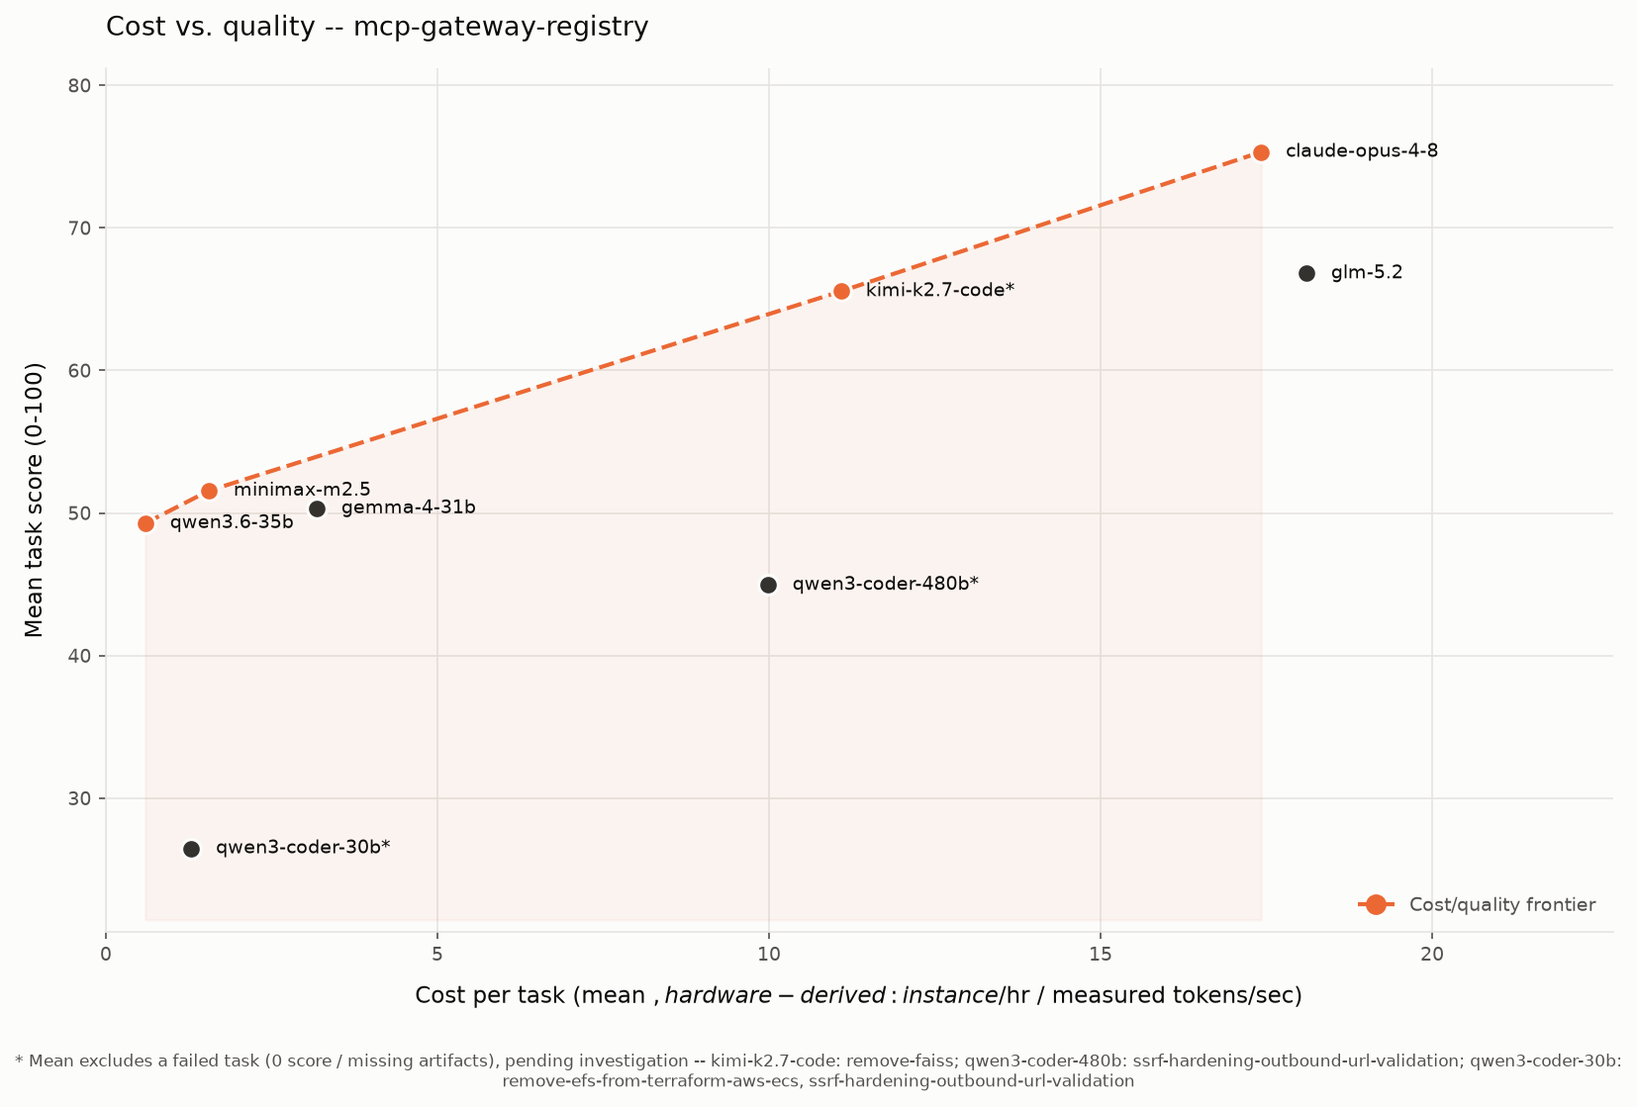
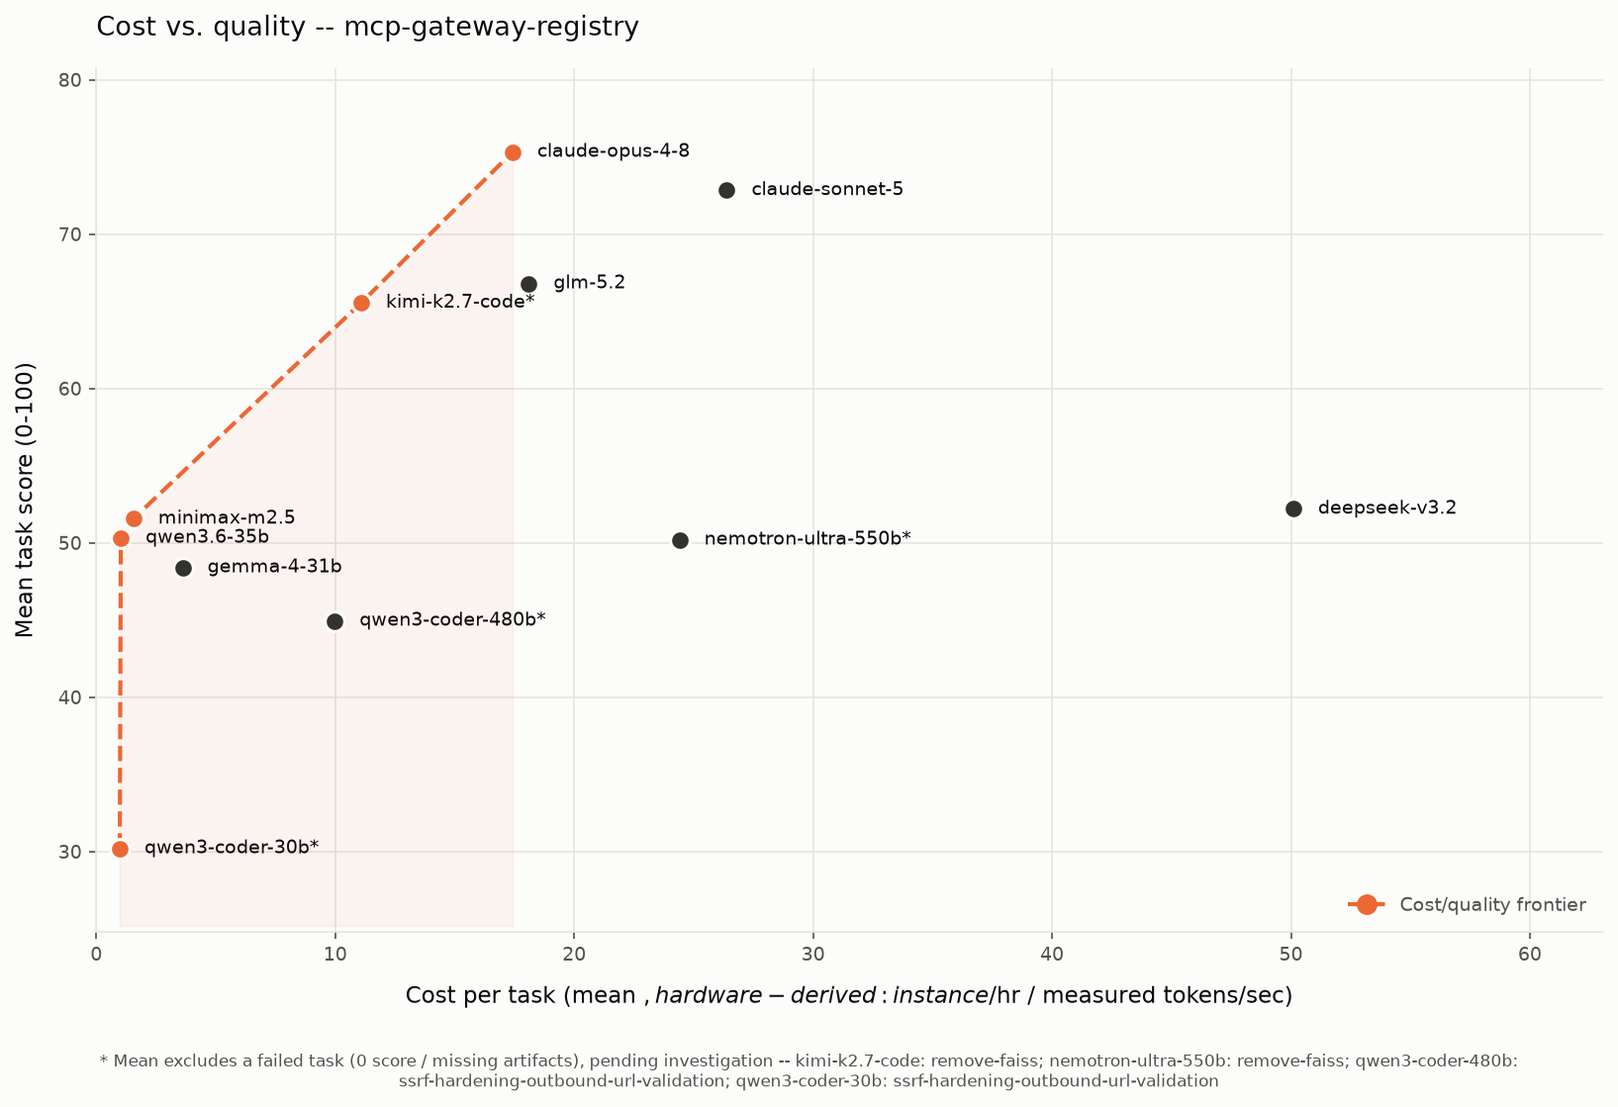
README: refresh results for the full 11-model set + new self-hosted run numbers
The table/chart/leaderboard now cover 11 models. New Path 1 (Bedrock) result
Claude-Sonnet-5 (72.84, $26.39/task) and self-hosted DeepSeek-V3.2 (52.20) and
Nemotron-Ultra-550B (50.20) join the set. The three g6e models were re-run under
the current /swe2 skill, changing both scores AND hardware-derived cost (cost =
this run's actual per-task tokens x blended $/token): qwen3.6-35b 50.32/$1.03,
gemma-4-31b 48.40/$3.62, qwen3-coder-30b 30.20/$0.98 (ssrf failed this run).

Frontier (5): qwen3-coder-30b -> qwen3.6-35b -> minimax-m2.5 -> kimi -> opus-4.8.
Opus still tops quality and dominates GLM (higher score, lower cost); Sonnet-5 is
2nd on quality but off the frontier on cost. Flagged that DeepSeek-V3.2 and
Nemotron have no throughput sweep, so their $/task is a token-priced estimate
(dagger), not hardware-derived. Updated footnotes 5/6/9, model list, coming-soon,
and regenerated both chart themes.

diff --git a/README.md b/README.md
@@ -107,40 +107,40 @@ To show what the harness produces, we ran it against [agentic-community/mcp-gate
 | 4 | `migrate-ecs-env-vars-to-secrets-manager` | High | Upstream [#1134](https://github.com/agentic-community/mcp-gateway-registry/issues/1134) |
 | 5 | `replace-keycloak-db-password-with-rds-iam` | High | Upstream [#1303](https://github.com/agentic-community/mcp-gateway-registry/issues/1303) |
 
-**Models benchmarked so far:** **Path 1 (Bedrock):** Claude-Opus-4.8. **Path 3 (self-hosted on vLLM):** Kimi-K2.7-Code, GLM-5.2, MiniMax-M2.5, and Qwen3-Coder-480B-A35B-Instruct (all on 8x H200 / `p5en.48xlarge`), plus Qwen3.6-35B-A3B, Qwen3-Coder-30B-A3B-Instruct, Qwen3-Coder-Next, and Gemma-4-31B-it (on `g6e.12xlarge` / 4x L40S). **Coming soon:** the rest of the Anthropic family on Bedrock (Sonnet/Haiku) and Path 2 (open-weight on Bedrock via the LiteLLM proxy -- DeepSeek, Mistral, …).
+**Models benchmarked so far:** **Path 1 (Bedrock):** Claude-Opus-4.8, Claude-Sonnet-5. **Path 3 (self-hosted on vLLM):** Kimi-K2.7-Code, GLM-5.2, DeepSeek-V3.2, MiniMax-M2.5, Nemotron-Ultra-550B, and Qwen3-Coder-480B-A35B-Instruct (all on 8x H200 / `p5en.48xlarge`), plus Qwen3.6-35B-A3B, Qwen3-Coder-30B-A3B-Instruct, Qwen3-Coder-Next, and Gemma-4-31B-it (on `g6e.12xlarge` / 4x L40S). **Coming soon:** Claude Haiku on Bedrock (Path 1) and Path 2 (open-weight on Bedrock via the LiteLLM proxy -- Mistral, …).
 
 ### Results -- 5 tasks x models
 
-All cells are task scores (0-100), the mean of the artifact totals per (task x model). These are **`/swe2` runs -- design *and* implementation** (six artifacts: the four design docs plus `patch.diff` + `implementation.md`), scored by the same judge (`codex exec`, `gpt-5.6-sol`, high reasoning effort). **Claude-Opus-4.8** is the first **Path 1** result (Anthropic on Amazon Bedrock); every other column is **Path 3, self-hosted via vLLM** (hardware differs by model size -- see the row under the table). Bold = top score in row. The other Bedrock paths are still **coming soon**.
+All cells are task scores (0-100), the mean of the artifact totals per (task x model). These are **`/swe2` runs -- design *and* implementation** (six artifacts: the four design docs plus `patch.diff` + `implementation.md`), scored by the same judge (`codex exec`, `gpt-5.6-sol`, high reasoning effort). **Claude-Opus-4.8 and Claude-Sonnet-5** are **Path 1** results (Anthropic on Amazon Bedrock); every other column is **Path 3, self-hosted via vLLM** (hardware differs by model size -- see the row under the table). Columns are ordered by mean score. Bold = top score in row. Path 2 (open-weight on Bedrock via LiteLLM) is still **coming soon**.
 
-| Task | Difficulty | Claude-Opus-4.8⁹ | GLM-5.2⁶ | Kimi-K2.7-Code | MiniMax-M2.5 | Gemma-4-31B | Qwen3.6-35B | Qwen3-Coder-480B⁷ | Qwen3-Coder-30B | Qwen3-Coder-Next⁴ |
-|------|-----------|-----------------:|---------:|---------------:|-------------:|------------:|------------:|------------------:|----------------:|:-----------------:|
-| `remove-faiss` | Medium | **69.2** | 62.8 | 0.0 ⁵ | 44.2 | 49.4 | 57.6 | 45.6 | 24.4 | n/a |
-| `remove-efs-from-terraform-aws-ecs` | Medium | **79.6** | 73.8 | 70.8 | 62.0 | 60.4 | 59.0 | 55.4 | 0.0 ⁵ | n/a |
-| `ssrf-hardening-outbound-url-validation` | Medium | **80.6** | 64.6 | 72.0 | 58.2 | 49.4 | 54.6 | 0.0 ⁵ | 0.0 ⁵ | n/a |
-| `migrate-ecs-env-vars-to-secrets-manager` | High | **70.6** | 68.6 | 67.2 | 53.6 | 52.4 | 39.2 | 41.0 | 32.2 | n/a |
-| `replace-keycloak-db-password-with-rds-iam` | High | **76.6** | 64.2 | 52.2 | 39.8 | 40.0 | 36.0 | 37.8 | 22.8 | n/a |
-| **Mean (excl. failed task⁵)** | | **75.32** | 66.80 | 65.55 | 51.56 | 50.32 | 49.28 | 44.95 | 26.47 | n/a |
+| Task | Diff. | Opus-4.8⁹ | Sonnet-5⁹ | GLM-5.2⁶ | Kimi-K2.7 | DeepSeek-V3.2 | MiniMax-M2.5 | Qwen3.6-35B | Nemotron-550B | Gemma-4-31B | Qwen3-Coder-480B⁷ | Qwen3-Coder-30B |
+|------|-------|----------:|----------:|---------:|----------:|--------------:|-------------:|------------:|--------------:|------------:|------------------:|----------------:|
+| `remove-faiss` | Med | 69.2 | **72.8** | 62.8 | 0.0 ⁵ | 48.2 | 44.2 | 53.2 | 0.0 ⁵ | 38.0 | 45.6 | 32.0 |
+| `remove-efs-from-terraform-aws-ecs` | Med | 79.6 | **86.8** | 73.8 | 70.8 | 59.0 | 62.0 | 65.2 | 55.4 | 53.6 | 55.4 | 28.2 |
+| `ssrf-hardening-outbound-url-validation` | Med | **80.6** | 68.6 | 64.6 | 72.0 | 56.4 | 58.2 | 41.6 | 52.4 | 64.6 | 0.0 ⁵ | 0.0 ⁵ |
+| `migrate-ecs-env-vars-to-secrets-manager` | High | **70.6** | 66.0 | 68.6 | 67.2 | 51.2 | 53.6 | 46.4 | 50.0 | 48.4 | 41.0 | 30.8 |
+| `replace-keycloak-db-password-with-rds-iam` | High | **76.6** | 70.0 | 64.2 | 52.2 | 46.2 | 39.8 | 45.2 | 43.0 | 37.4 | 37.8 | 29.8 |
+| **Mean (excl. failed⁵)** | | **75.32** | 72.84 | 66.80 | 65.55 | 52.20 | 51.56 | 50.32 | 50.20 | 48.40 | 44.95 | 30.20 |
 
-The **Mean** row excludes any task that scored 0 -- a genuine model failure (missing artifacts), which is an unresolved anomaly rather than a quality measurement, so it is left out of the average **pending further investigation** and flagged with `⁵`. Per-task 0.0 cells are still shown so the failure is visible. Claude-Opus-4.8 / GLM-5.2 / MiniMax-M2.5 / Qwen3.6-35B / Gemma-4-31B score over all 5 tasks (no failures); Kimi over 4 (one failed), Qwen3-Coder-480B over 4, Qwen3-Coder-30B over 3 (two failed).
+The **Mean** row excludes any task that scored 0 -- a genuine model failure (missing artifacts), an unresolved anomaly rather than a quality measurement, so it is left out of the average **pending further investigation** and flagged with `⁵`. Per-task 0.0 cells are still shown so the failure is visible. No-failure (5/5): Opus-4.8, Sonnet-5, GLM-5.2, DeepSeek-V3.2, MiniMax-M2.5, Qwen3.6-35B, Gemma-4-31B. 4/5 (one failed): Kimi (`remove-faiss`), Nemotron-550B (`remove-faiss`), Qwen3-Coder-480B (`ssrf`), Qwen3-Coder-30B (`ssrf`).
 
 **Hardware:** Kimi-K2.7-Code (1.06T-param MoE, ~1 TB weights) ran on **8x H200** (`p5en.48xlarge`) at its full **131,072-token (128K) native context window**; GLM-5.2 (744B MoE / 40B active, ~750 GB FP8 weights), MiniMax-M2.5, and Qwen3-Coder-480B (480B MoE / 35B active, FP8, TP=4) also ran on **8x H200** (`p5en.48xlarge`); the three smaller Qwen models (3B-active MoE) and Gemma-4-31B (dense, ~63 GB) ran on a single **`g6e.12xlarge`** (4x L40S) at a 200K window. All via vLLM. Gemma-4-31B is dense and slow, so it used a raised per-task timeout (`--timeout-seconds 3600`); the default 1800s was not enough for it to return. Note Kimi's 128K window is below the harness's 200K agentic-coding guideline, yet it completed 4 of 5 tasks -- the one failure (`keycloak-rds-iam`) was a turn-cap timeout, not a context overflow.
 
 ⁴ Qwen3-Coder-Next (79.6B, ~160 GB weights) **could not be benchmarked on the `g6e.12xlarge`.** There the weights leave room for only a ~16K context window, but agentic coding tasks need 100K-250K input tokens per request, so every task overflows the window on the first prompt. It needs a larger-VRAM node (e.g. `g6e.48xlarge`) to serve a >=200K window. The `/benchmark` skill enforces a 200K-minimum gate by default as a conservative guideline -- Kimi's 128K run shows a window somewhat below 200K can still work when the tasks fit, but 16K cannot. See [self-hosted/vllm/models/qwen3-coder-next.md](self-hosted/vllm/models/qwen3-coder-next.md).
 
-⁵ **Genuine model failures, scored 0.** On these `/swe2` runs the failures are: Kimi-K2.7-Code on `remove-faiss`, Qwen3-Coder-480B on `ssrf`, and Qwen3-Coder-30B on `remove-efs` and `ssrf`. Each failed to produce a scorable artifact set (typically the model exhausted its turn budget on the implementation step without landing edits, so no `patch.diff`). The judge records a missing/empty-artifact folder as a 0 with a `MODEL FAILURE` verdict rather than dropping it. The **Mean** row excludes these tasks (over the tasks each model completed): GLM-5.2 66.80 (5/5), Kimi 65.55 (4/5), MiniMax-M2.5 51.56 (5/5), Gemma-4-31B 50.32 (5/5), Qwen3.6-35B 49.28 (5/5), Qwen3-Coder-480B 44.95 (4/5), Qwen3-Coder-30B 26.47 (3/5).
+⁵ **Genuine model failures, scored 0.** On these `/swe2` runs the failures are: Kimi-K2.7-Code on `remove-faiss`, Nemotron-Ultra-550B on `remove-faiss`, Qwen3-Coder-480B on `ssrf`, and Qwen3-Coder-30B on `ssrf`. Each failed to produce a scorable artifact set (typically the model exhausted its turn budget on the implementation step without landing edits, so no `patch.diff`). The judge records a missing/empty-artifact folder as a 0 with a `MODEL FAILURE` verdict rather than dropping it. The **Mean** row is over the tasks each model completed, excluding those failures: 5/5 for Opus-4.8, Sonnet-5, GLM-5.2, DeepSeek-V3.2, MiniMax-M2.5, Qwen3.6-35B, Gemma-4-31B; 4/5 for Kimi, Nemotron-Ultra-550B, Qwen3-Coder-480B, and Qwen3-Coder-30B.
 
 ⁶ **GLM-5.2 ran with more headroom than the others -- not strictly apples-to-apples.** GLM-5.2 (`zai-org/GLM-5.2-FP8`, 744B MoE / 40B active, ~750 GB FP8 weights) was served on **8x H200** at a **300K context window**. It is the top self-hosted model (66.80 over 5/5) but on the biggest, most expensive box measured (~$18/task, see the cost section). Treat cross-instance comparisons as indicative until normalized.
 
 ⁷ **Qwen3-Coder-480B intermittently fails to produce artifacts -- the failure is nondeterministic, not task-specific.** Qwen3-Coder-480B (`Qwen/Qwen3-Coder-480B-A35B-Instruct-FP8`, 480B MoE / 35B active) was served on the **8x H200** node at **TP=4** (a block-FP8 MoE sharding constraint forces TP=4, not 8 -- see [its model guide](self-hosted/vllm/models/qwen3-coder-480b.md)), 200K window. Like the smaller Qwen3-Coder-30B, it periodically explores/edits the repo instead of completing the artifact chain (or exhausts the turn cap), scoring 0 on some tasks. It is a harness-conformance instability of a coder-tuned model, not a serving or context problem.
 
-⁹ **Claude-Opus-4.8 is a Path 1 (Bedrock) result -- its cost is a real metered API bill, not hardware-derived.** `us.anthropic.claude-opus-4-8` was run through Amazon Bedrock (no self-hosting), so its **$17.42/task** is the actual token-metered charge, whereas every self-hosted model's `$/task` is `instance $/hr / measured tokens/sec` x tokens (see the cost section). They are comparable as "what you would pay," but the provenance differs. Opus tops the quality table (75.32 over 5/5) at a cost slightly *below* the most expensive self-hosted model (GLM-5.2, $18.10) -- so it **dominates** GLM here (higher score, lower cost) and anchors the top of the cost/quality frontier. On this benchmark the best-quality option is a frontier API model, and it is not more expensive per task than running a 744B MoE on an 8x H200 box.
+⁹ **Claude-Opus-4.8 and Claude-Sonnet-5 are Path 1 (Bedrock) results -- their cost is a real metered API bill, not hardware-derived.** Both were run through Amazon Bedrock (no self-hosting), so their `$/task` ($17.42 and $26.39) is the actual token-metered charge, whereas a self-hosted model's `$/task` is `instance $/hr / measured tokens/sec` x tokens (see the cost section). Comparable as "what you would pay," but different in provenance. Opus tops the quality table (75.32 over 5/5) at a cost *below* the best open-weight model (GLM-5.2, 66.80 at $18.10) -- so it **dominates** GLM (higher score, lower cost) and anchors the top of the frontier. Sonnet-5 (72.84) is a close second on quality but pricier per task ($26.39 -- more verbose implementations, more output tokens), so it sits just off the frontier. On this benchmark the best-quality options are the frontier API models, and Opus in particular is not more expensive per task than self-hosting a 744B MoE on an 8x H200 box.
 
 ### Cost vs. quality
 
 ![Cost vs. quality scatter: mean estimated cost per task against mean task score, for the self-hosted models, with the cost/quality frontier highlighted](docs/images/cost-quality.png)
 
-Mean cost per task (x) against mean task score (y), one point per model. For **self-hosted** models cost is **hardware-derived**: each model's blended cost per token (from its throughput sweep -- instance $/hr / measured tokens/sec, see [cost-per-task-methodology.md](self-hosted/vllm/cost-per-task-methodology.md)) times that model's *actual* input+output tokens per task, averaged over its non-failed tasks. For **Claude-Opus-4.8** (Path 1, Bedrock) cost is the **real token-metered API bill** -- comparable as spend, different in kind (footnote ⁹). The cost/quality frontier runs **Qwen3.6-35B ($0.59 / 49.28) -> MiniMax-M2.5 ($1.55 / 51.56) -> Kimi-K2.7-Code ($11.09 / 65.55) -> Claude-Opus-4.8 ($17.42 / 75.32)**; GLM-5.2 ($18.10 / 66.80) is now **dominated by Opus** (Opus scores higher at lower cost) and drops off the frontier, and Gemma-4-31B ($3.18 / 50.32), Qwen3-Coder-30B ($1.29 / 26.47), and Qwen3-Coder-480B ($9.98 / 44.95) also sit **below** the frontier; Qwen3-Coder-Next is omitted (not viable on this node). A model's mean excludes any 0-score failed task, matching the table (see footnote ⁵). Regenerate from the committed run + performance summaries with `uv run scripts/plot_cost_quality.py` (add `--dark` for the dark theme) from `benchmarks/`.
+Mean cost per task (x) against mean task score (y), one point per model. For **self-hosted** models with a throughput sweep, cost is **hardware-derived**: the model's blended cost per token (instance $/hr / measured tokens/sec, see [cost-per-task-methodology.md](self-hosted/vllm/cost-per-task-methodology.md)) times its *actual* input+output tokens per task, averaged over non-failed tasks. The two **Anthropic** points (Opus-4.8, Sonnet-5) are **real token-metered Bedrock bills**; **DeepSeek-V3.2** and **Nemotron-Ultra-550B** have no sweep so use a token-priced estimate (`‡`) -- comparable as spend, different in kind. The cost/quality frontier runs **Qwen3-Coder-30B ($0.98 / 30.20) -> Qwen3.6-35B ($1.03 / 50.32) -> MiniMax-M2.5 ($1.55 / 51.56) -> Kimi-K2.7-Code ($11.09 / 65.55) -> Claude-Opus-4.8 ($17.42 / 75.32)**. Everything else is **dominated**: notably Claude-Sonnet-5 (72.84 but $26.39), GLM-5.2 (66.80 at $18.10, beaten by Opus on both axes), Gemma-4-31B, Qwen3-Coder-480B, Nemotron-Ultra-550B, and DeepSeek-V3.2 ($50.10 est., the priciest). Qwen3-Coder-Next is omitted (not viable on this node). A model's mean excludes any 0-score failed task (footnote ⁵). Regenerate with `uv run scripts/plot_cost_quality.py` (add `--dark`) from `benchmarks/`.
 
 ### Per-model leaderboard (so far)
 
@@ -149,29 +149,33 @@ Mean score is over the tasks each model completed (any 0-score failed task is ex
 | Rank | Model | Params (active) | Hardware | Mean score | $/task | Tasks scored |
 |-----:|-------|----------------|----------|-----------:|-------:|-------------:|
 | 1 | Claude-Opus-4.8⁹ | -- (Bedrock) | Amazon Bedrock (Path 1) | **75.32** | $17.42† | 5/5 |
-| 2 | GLM-5.2⁶ | 744B (40B) | 8x H200 | **66.80** | $18.10 | 5/5 |
-| 3 | Kimi-K2.7-Code | 1,058.6B (MoE) | 8x H200 | **65.55** | $11.09 | 4/5 |
-| 4 | MiniMax-M2.5 | 230B (10B) | 8x H200 (TP=4) | **51.56** | $1.55 | 5/5 |
-| 5 | Gemma-4-31B-it | 31B (dense) | g6e.12xlarge | **50.32** | $3.18 | 5/5 |
-| 6 | Qwen3.6-35B-A3B | 35.9B (3B) | g6e.12xlarge | **49.28** | **$0.59** | 5/5 |
-| 7 | Qwen3-Coder-480B-A35B-Instruct⁷ | 480B (35B) | 8x H200 (TP=4) | **44.95** | $9.98 | 4/5 |
-| 8 | Qwen3-Coder-30B-A3B-Instruct | 30.5B (3B) | g6e.12xlarge | **26.47** | $1.29 | 3/5 |
+| 2 | Claude-Sonnet-5⁹ | -- (Bedrock) | Amazon Bedrock (Path 1) | **72.84** | $26.39† | 5/5 |
+| 3 | GLM-5.2⁶ | 744B (40B) | 8x H200 | **66.80** | $18.10 | 5/5 |
+| 4 | Kimi-K2.7-Code | 1,058.6B (MoE) | 8x H200 | **65.55** | $11.09 | 4/5 |
+| 5 | DeepSeek-V3.2 | 671B (37B) | 8x H200 | **52.20** | $50.10‡ | 5/5 |
+| 6 | MiniMax-M2.5 | 230B (10B) | 8x H200 (TP=4) | **51.56** | $1.55 | 5/5 |
+| 7 | Qwen3.6-35B-A3B | 35.9B (3B) | g6e.12xlarge | **50.32** | $1.03 | 5/5 |
+| 8 | Nemotron-Ultra-550B | 550B (dense) | 8x H200 | **50.20** | $24.41‡ | 4/5 |
+| 9 | Gemma-4-31B-it | 31B (dense) | g6e.12xlarge | **48.40** | $3.62 | 5/5 |
+| 10 | Qwen3-Coder-480B-A35B-Instruct⁷ | 480B (35B) | 8x H200 (TP=4) | **44.95** | $9.98 | 4/5 |
+| 11 | Qwen3-Coder-30B-A3B-Instruct | 30.5B (3B) | g6e.12xlarge | **30.20** | **$0.98** | 4/5 |
 | - | Qwen3-Coder-Next | 79.6B (3B) | (needs bigger node) | not viable on g6e.12xlarge | -- | 0 |
 
-† Claude-Opus-4.8's `$/task` is a real Bedrock **API bill** (token-metered), not a hardware-derived figure like the self-hosted rows; see footnote `⁹`.
+† Claude-Opus-4.8 / Claude-Sonnet-5 `$/task` is a real Bedrock **API bill** (token-metered), not a hardware-derived figure; see footnote `⁹`.
+‡ DeepSeek-V3.2 and Nemotron-Ultra-550B are self-hosted but have **no throughput sweep**, so their `$/task` is the harness's **token-priced estimate**, not the hardware-derived (`instance $/hr / tokens-sec`) figure used for the other self-hosted rows -- treat those two costs as indicative and higher-variance until a sweep is run.
 
-**Coming soon:** the rest of the Anthropic family on Bedrock (Claude Sonnet/Haiku, Path 1) and the open-weight Bedrock models via the LiteLLM proxy (Path 2 -- DeepSeek, Mistral, …).
+**Coming soon:** Claude Haiku on Bedrock (Path 1) and the open-weight Bedrock models via the LiteLLM proxy (Path 2 -- Mistral, …).
 
 ### What the data says (so far)
 
 These are early self-hosted numbers on differing hardware; treat them as a starting point, not a final ranking. Cross-path comparisons wait until the Bedrock paths are run.
 
-- **Claude-Opus-4.8 leads on quality by a clear margin (75.32 over 5/5)** -- ~9 points ahead of the best self-hosted model, GLM-5.2 (66.80), and at a *lower* cost per task ($17.42 metered API vs GLM's $18.10 hardware-derived), so it dominates GLM outright. The headline: the frontier API model both tops the table and is not more expensive than self-hosting a 744B MoE on an 8x H200 box. Kimi-K2.7-Code (65.55 over 4/5) trails at ~$11. On this `/swe2` (design + implementation) benchmark these three are the quality ceiling and the expensive corner of the frontier.
-- **Qwen3.6-35B is the value story, now with a measured price:** on one mid-range GPU node (a single g6e.12xlarge) it scores 49.28 over all 5 tasks with no failures at a **hardware-derived $0.59 per task** -- the cheapest measured, ~30x under GLM-5.2, and on the cost/quality frontier.
-- **MiniMax-M2.5 is the best quality-per-dollar in the upper half:** 51.56 over 5/5 at **$1.55/task** -- it beats the dense Gemma-4-31B ($3.18) and the much pricier Qwen3-Coder-480B ($9.98) while costing a fraction, sitting on the frontier just above Qwen3.6-35B.
-- **Cost is now measured, not estimated.** Every $/task above is `instance $/hr / measured tokens/sec` (from each model's throughput sweep) times that model's real per-task token load -- so the cost axis reflects actual serving economics on the benchmarked hardware, not a token-price guess. See [cost-per-task-methodology.md](self-hosted/vllm/cost-per-task-methodology.md).
-- **The judge is strict, and implementation is harder than design.** These `/swe2` runs score design *and* code; scores in the 40-67 range reflect artifacts that are serviceable but often light on the specificity, risk-analysis, and complete implementation the rubric rewards. Coder-tuned models (Qwen3-Coder-30B/480B) are the least reliable here -- they tend to burn the turn budget implementing instead of completing the full artifact set, producing the 0-score failures.
-- **MoE economics are the reason to self-host these.** Nearly every model here is a mixture-of-experts, so per-token compute (and cost) tracks the active-expert count, not the total -- the regime where a fixed-cost GPU node can beat per-token API pricing under load. The 3B-active Qwen MoEs on a single L40S node are the clearest example: sub-$1.50/task.
+- **The two Anthropic models top the table:** Claude-Opus-4.8 (75.32 over 5/5) and Claude-Sonnet-5 (72.84 over 5/5) lead every self-hosted model. Opus dominates GLM-5.2 (the best open-weight, 66.80) on *both* axes -- higher score and lower cost ($17.42 vs $18.10). Sonnet-5 scores nearly as high but costs more per task ($26.39, its verbose implementations run up output tokens), so it sits just off the frontier.
+- **Qwen3.6-35B is the value story:** on one mid-range GPU node (a single g6e.12xlarge) it scores 50.32 over all 5 tasks with no failures at a **hardware-derived $1.03 per task** -- roughly a median score at a small fraction of the frontier models' cost, and on the cost/quality frontier.
+- **MiniMax-M2.5 is the best quality-per-dollar in the upper-middle:** 51.56 over 5/5 at **$1.55/task** -- it beats the dense Gemma-4-31B ($3.62) and the much pricier Qwen3-Coder-480B ($9.98) and DeepSeek-V3.2 ($50.10 est.) while costing a fraction, anchoring the frontier just above Qwen3.6-35B.
+- **Cost is hardware-derived where a throughput sweep exists.** For the self-hosted models with a sweep, $/task is `instance $/hr / measured tokens/sec` times that model's real per-task token load; the two Anthropic rows are real Bedrock API bills; DeepSeek-V3.2 and Nemotron-Ultra-550B lack a sweep and fall back to a token-priced estimate (flagged `‡`). See [cost-per-task-methodology.md](self-hosted/vllm/cost-per-task-methodology.md).
+- **The judge is strict, and implementation is harder than design.** These `/swe2` runs score design *and* code; scores in the 30-75 range reflect artifacts that are serviceable but often light on the specificity, risk-analysis, and complete implementation the rubric rewards. Coder-tuned models (Qwen3-Coder-30B/480B) are the least reliable here -- they tend to burn the turn budget implementing instead of completing the full artifact set, producing the 0-score failures.
+- **MoE economics are the reason to self-host these.** Nearly every open-weight model here is a mixture-of-experts, so per-token compute (and cost) tracks the active-expert count, not the total -- the regime where a fixed-cost GPU node can beat per-token API pricing under load. The 3B-active Qwen MoEs on a single L40S node are the clearest example: ~$1/task.
 
 > **The example repo is the example, not the contract.** `/swe` works against any GitHub URL -- clone the target you actually care about, write the task description, and run.
 
